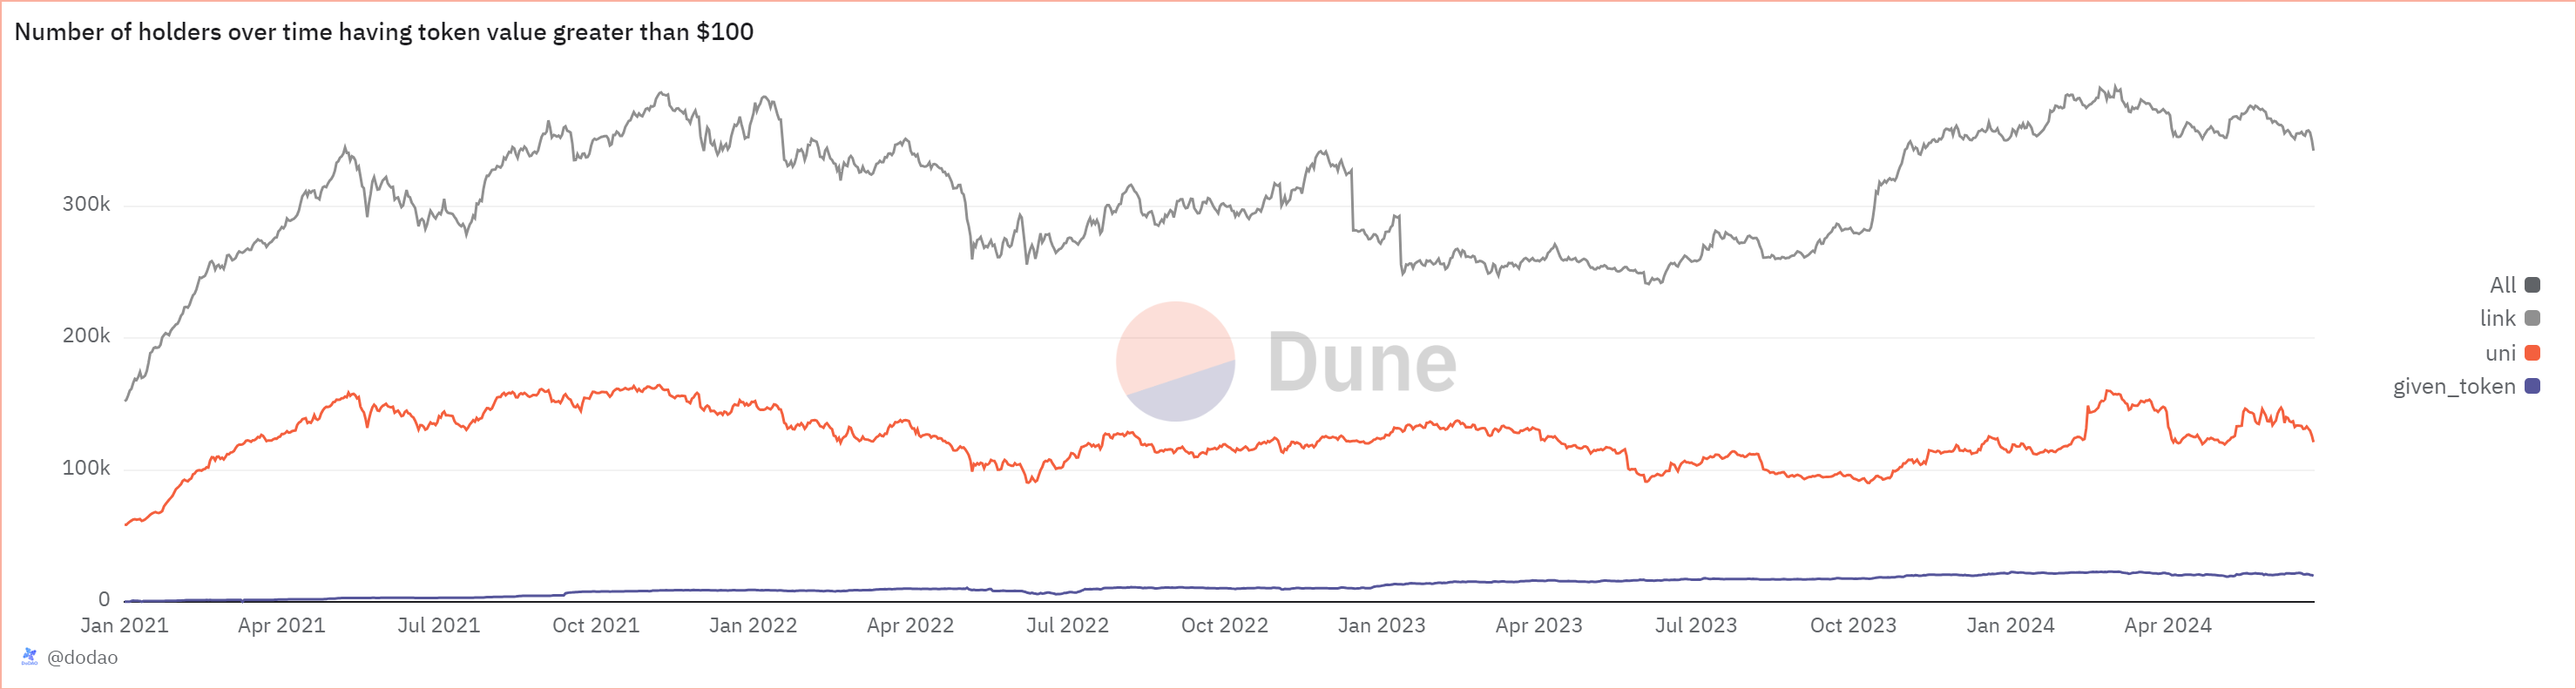
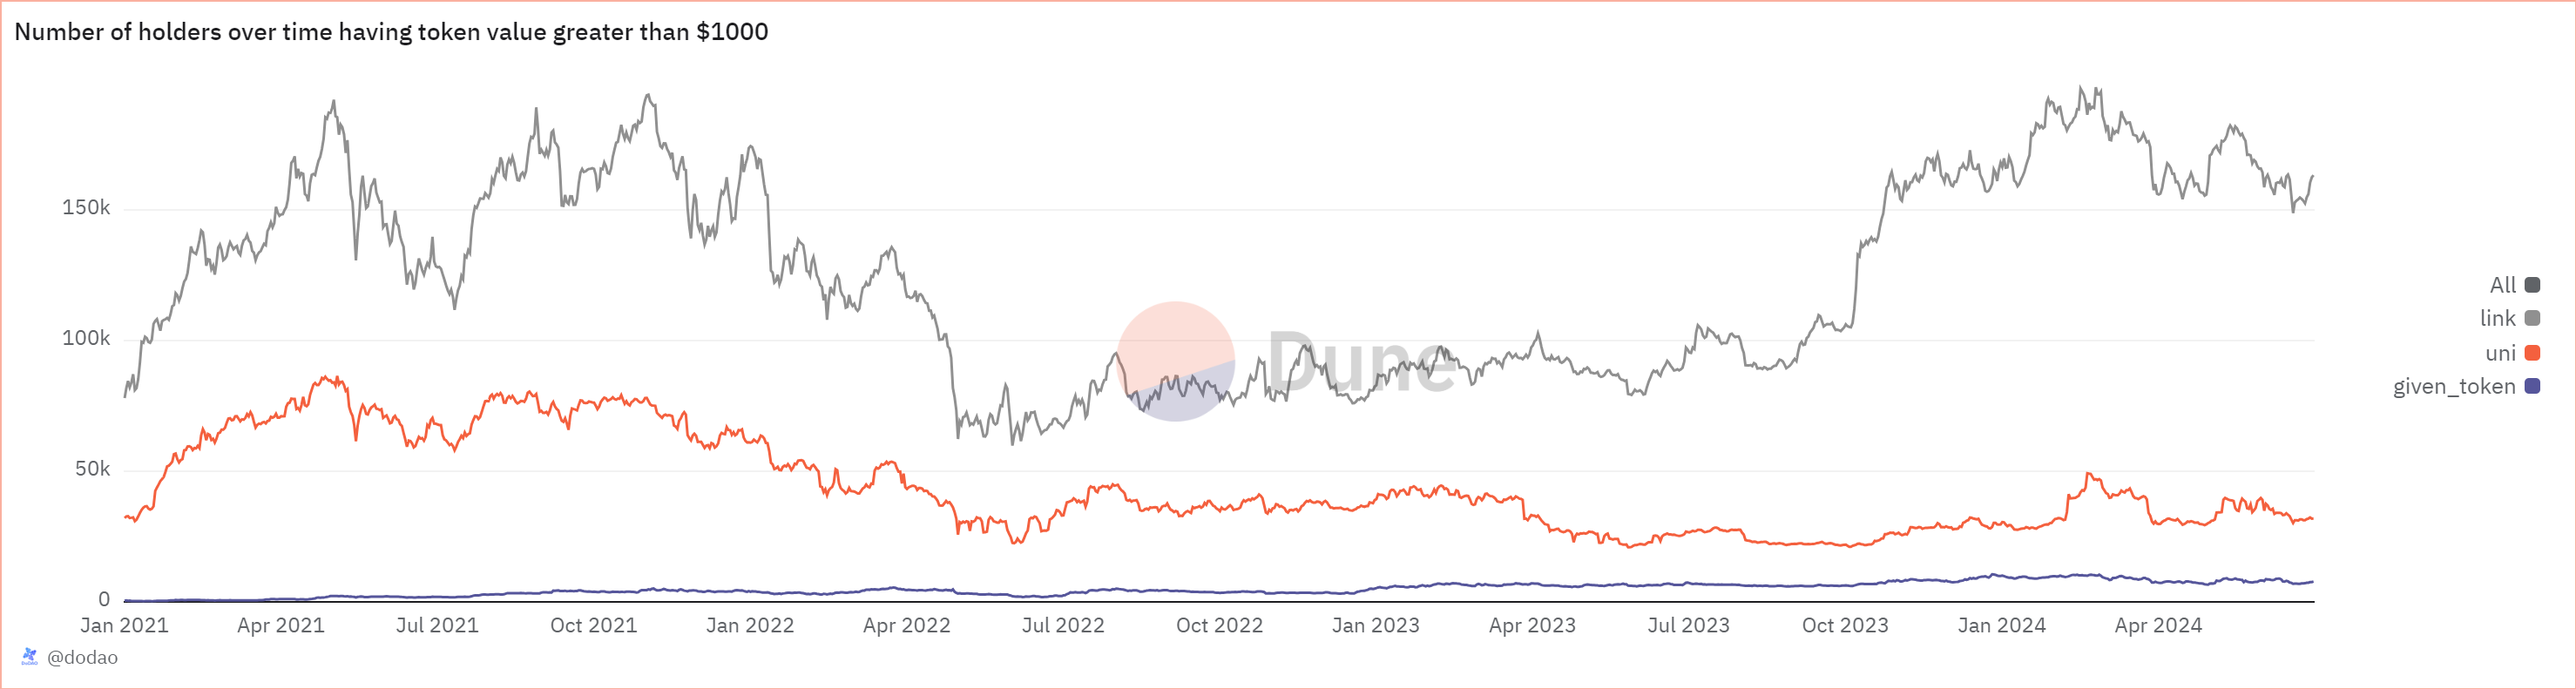
updating query 2 to have 000 instead of 00, also make a new chart for less than 000

diff --git a/src/compound/asset-analysis/02_number-of-holders/README.md b/src/compound/asset-analysis/02_number-of-holders/README.md
@@ -8,7 +8,7 @@ The graph for number of holders over time displays the total number of unique ad
 ![totalNumberOfHolders](total-number-of-holders.png)
 ![numberOfHoldersOverTime](number-of-holders-over-time.png)
 ![numberOfHoldersOverTimeWithGreaterTokenValueThan$100](number-of-holders-greater-than-$100-token-value.png)
-![numberOfHoldersOverTimeWithGreaterTokensThan0.001%](number-of-holders-greater-than-0.001%-supply.png)
+![numberOfHoldersOverTimeWithLessOrEqualTokenValueThan$100](number-of-holders-less-than-equal-$100-token-value.png)
 
 # Relevance
 
@@ -213,9 +213,9 @@ ORDER BY
 
 - {{Blockchain}}.transactions (Raw data of a chain containing all kinds of transactions)
 
-## number of holders over time having token value greater than $100
+## number of holders over time having token value greater than $1000
 
-This query calculates the number of Ethereum token holders over time, specifically for a given token, UNI, and LINK. The query also determines the number of holders who possess more than $100 worth of tokens based on daily prices
+This query calculates the number of Ethereum token holders over time, specifically for a given token, UNI, and LINK. The query also determines the number of holders who possess more than $1000 worth of tokens based on daily prices
 
 This query also uses the same CTE transfers, balance_with_gap_days, days and balance_all_days
 
@@ -239,7 +239,7 @@ token_daily_prices AS (
   )
 ```
 
-Counts the number of holders for each day whose token holdings exceed $100
+Counts the number of holders for each day whose token holdings exceed $1000
 
 ```sql
 token_holders_with_token_value AS (
@@ -247,9 +247,9 @@ token_holders_with_token_value AS (
       b.day AS "Date",
       COUNT(
         CASE
-          WHEN (balance * p.price / POWER(10, p.decimals)) > 100 THEN address
+          WHEN (balance * p.price / POWER(10, p.decimals)) > 1000 THEN address
         END
-      ) AS "Holders with Token Value > $100"
+      ) AS "Holders with Token Value > $1000"
     FROM
       token_balance_all_days AS b
       LEFT JOIN token_daily_prices AS p ON b.day = p.day
@@ -265,13 +265,15 @@ The final SELECT statement combines the data from the above CTEs using FULL JOIN
 ```sql
 SELECT
   COALESCE(htv_token."Date", htv_uni."Date", htv_link."Date") AS "Date",
-  COALESCE(htv_token."Holders with Token Value > $100", 0) AS "Token Holders with Token Value > $100",
-  COALESCE(htv_uni."Holders with Token Value > $100", 0) AS "UNI Holders with Token Value > $100",
-  COALESCE(htv_link."Holders with Token Value > $100", 0) AS "LINK Holders with Token Value > $100"
+  COALESCE(htv_token."Holders with Token Value > $1000", 0) AS "Token Holders with Token Value > $1000",
+  COALESCE(htv_uni."Holders with Token Value > $1000", 0) AS "UNI Holders with Token Value > $1000",
+  COALESCE(htv_link."Holders with Token Value > $1000", 0) AS "LINK Holders with Token Value > $1000"
 FROM
   token_holders_with_token_value htv_token
   FULL JOIN uni_holders_with_token_value htv_uni ON htv_token."Date" = htv_uni."Date"
   FULL JOIN link_holders_with_token_value htv_link ON htv_token."Date" = htv_link."Date"
+where
+  htv_token."Holders with Token Value > $1000" > 0
 ORDER BY
   COALESCE(htv_token."Date", htv_uni."Date", htv_link."Date");
 ```
@@ -280,5 +282,79 @@ ORDER BY
 
 - erc20\_{{Blockchain}}.evt_Transfer (Curated dataset of erc20 tokens' transactions. Origin unknown)
 - dex.prices (This table loads the prices of tokens from the dex.trades table. This helps for missing tokens from the prices.usd table. Made by @henrystats. Present in the spellbook of dune analytics [Spellbook-Dex-Prices](https://github.com/duneanalytics/spellbook/blob/main/models/dex/dex_schema.yml))
+- tokens.erc20 (Curated dataset for erc20 tokens with addresses, symbols and decimals. Origin unknown)
+
+### Alternative Choices
+
+## number of holders over time having token value less than or equal to $1000
+
+This query calculates the number of token holders over time, specifically for a given token, UNI, and LINK, who possess tokens with a value of $1000 or less based on daily prices.
+
+This query also uses the same CTE transfers, balance_with_gap_days, days and balance_all_days
+
+Calculates the daily average price for each token
+
+```sql
+token_daily_prices AS (
+    SELECT
+      er.decimals,
+      DATE_TRUNC('day', hour) AS day,
+      AVG(dx.median_price) AS price
+    FROM
+      dex.prices dx
+      JOIN tokens.erc20 er ON er.contract_address = {{token_address}}
+    WHERE
+      dx.contract_address = {{token_address}}
+      AND er.blockchain = '{{chain}}'
+    GROUP BY
+      er.decimals,
+      DATE_TRUNC('day', hour)
+  )
+```
+
+This CTE calculates the number of token holders who have a token value less than or equal to $1000 on each day
+
+```sql
+token_holders_with_token_value AS (
+    SELECT
+      b.day AS "Date",
+      COUNT(
+        CASE
+          WHEN (balance * p.price / POWER(10, p.decimals)) <= 1000 THEN address
+        END
+      ) AS "Holders with Token Value <= $1000"
+    FROM
+      token_balance_all_days AS b
+      LEFT JOIN token_daily_prices AS p ON b.day = p.day
+    WHERE
+      balance > 0
+    GROUP BY
+      b.day
+  )
+```
+
+This final statement retrieves the number of token holders with token values less than or equal to $1000 for the specified token, UNI, and LINK, merging the data by date.
+
+```sql
+SELECT
+  COALESCE(htv_token."Date", htv_uni."Date", htv_link."Date") AS "Date",
+  COALESCE(htv_token."Holders with Token Value <= $1000", 0) AS "Token Holders with Token Value <= $1000",
+  COALESCE(htv_uni."Holders with Token Value <= $1000", 0) AS "UNI Holders with Token Value <= $1000",
+  COALESCE(htv_link."Holders with Token Value <= $1000", 0) AS "LINK Holders with Token Value <= $1000"
+FROM
+  token_holders_with_token_value htv_token
+  FULL JOIN uni_holders_with_token_value htv_uni ON htv_token."Date" = htv_uni."Date"
+  FULL JOIN link_holders_with_token_value htv_link ON htv_token."Date" = htv_link."Date"
+where
+  htv_token."Holders with Token Value <= $1000" > 0
+ORDER BY
+  COALESCE(htv_token."Date", htv_uni."Date", htv_link."Date");
+```
+
+### Tables used
+
+- erc20\_{{Blockchain}}.evt_Transfer (Curated dataset of erc20 tokens' transactions. Origin unknown)
+- dex.prices (This table loads the prices of tokens from the dex.trades table. This helps for missing tokens from the prices.usd table. Made by @henrystats. Present in the spellbook of dune analytics [Spellbook-Dex-Prices](https://github.com/duneanalytics/spellbook/blob/main/models/dex/dex_schema.yml))
+- tokens.erc20 (Curated dataset for erc20 tokens with addresses, symbols and decimals. Origin unknown)
 
 ### Alternative Choices
